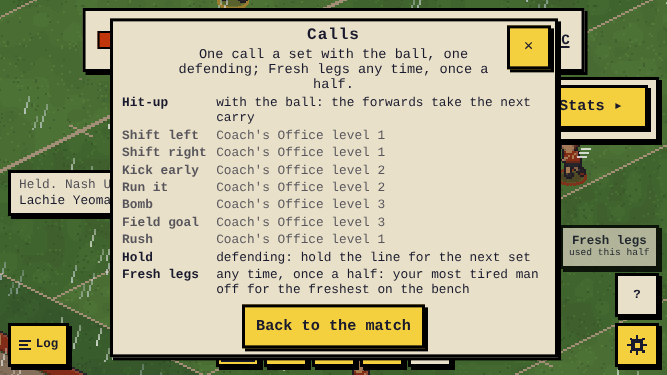
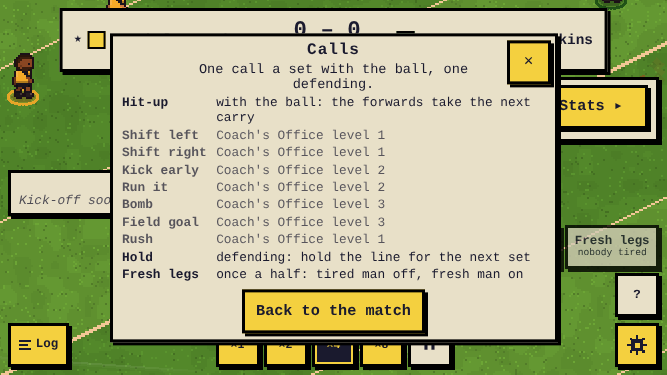
Fresh legs: keep the calls sheet on a 956x330 screen (#367)
The WebKit check (match-cards, 956x330) found the calls sheet's "Back to the
match" button off screen: the Fresh legs row and a longer first line made
the sheet 333 px tall in 308 px. The first line is back to main's, and
Fresh legs' row fits one line ("once a half: tired man off, fresh man on"),
so the sheet is 303 px and doesn't scroll.

Claude-Session: https://claude.ai/code/session_01M8GKaqcqVKx7UbXTPbk4R6

diff --git a/src/scenes/MatchScene.ts b/src/scenes/MatchScene.ts
@@ -828,7 +828,7 @@ export class MatchScene extends Phaser.Scene {
       }
       list.append(name, when);
     }
-    this.openSheet((onDone) => showMatchSheet({ head: 'Calls', lines: ['One call a set with the ball, one defending; Fresh legs any time, once a half.', list], actions: [{ label: 'Back to the match', onTap: () => {} }], onDone }));
+    this.openSheet((onDone) => showMatchSheet({ head: 'Calls', lines: ['One call a set with the ball, one defending.', list], actions: [{ label: 'Back to the match', onTap: () => {} }], onDone }));
   }
 
   /** The chips follow the play (calls.ts chipState): what makes sense now, or the call made this set. */

diff --git a/src/ui/screens/matchOverlay.ts b/src/ui/screens/matchOverlay.ts
@@ -317,7 +317,7 @@ export const CALL_WHEN: Readonly<Record<CoachCall, string>> = {
   'field-goal': 'late, close and in range: drop for goal',
   rush: 'defending: rush up for the next set',
   hold: 'defending: hold the line for the next set',
-  'fresh-legs': 'any time, once a half: your most tired man off for the freshest on the bench',
+  'fresh-legs': 'once a half: tired man off, fresh man on',
 };
 
 /** "2/5" for a side's calls paid off of made, "–" when it made none. */
